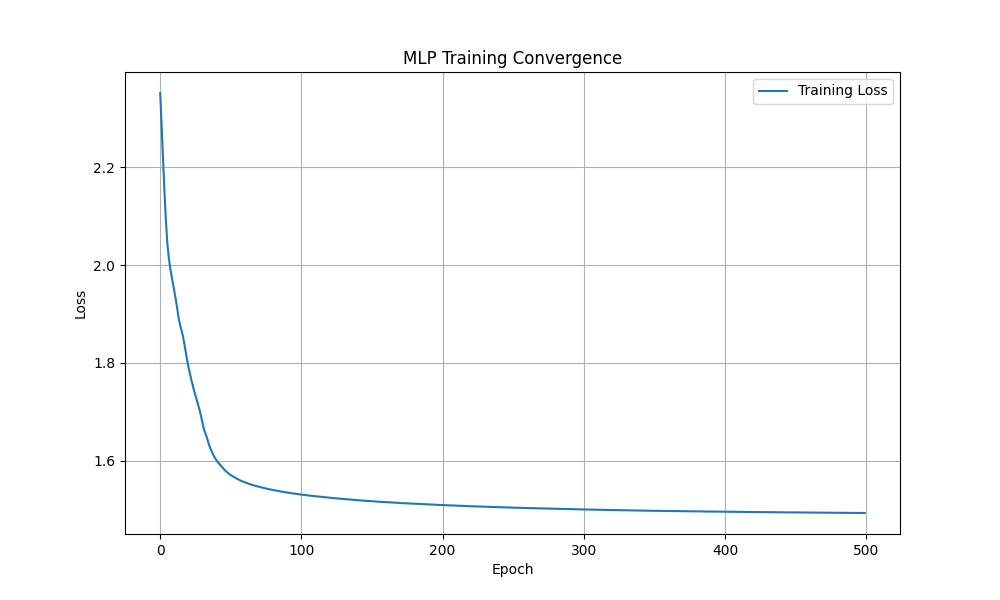
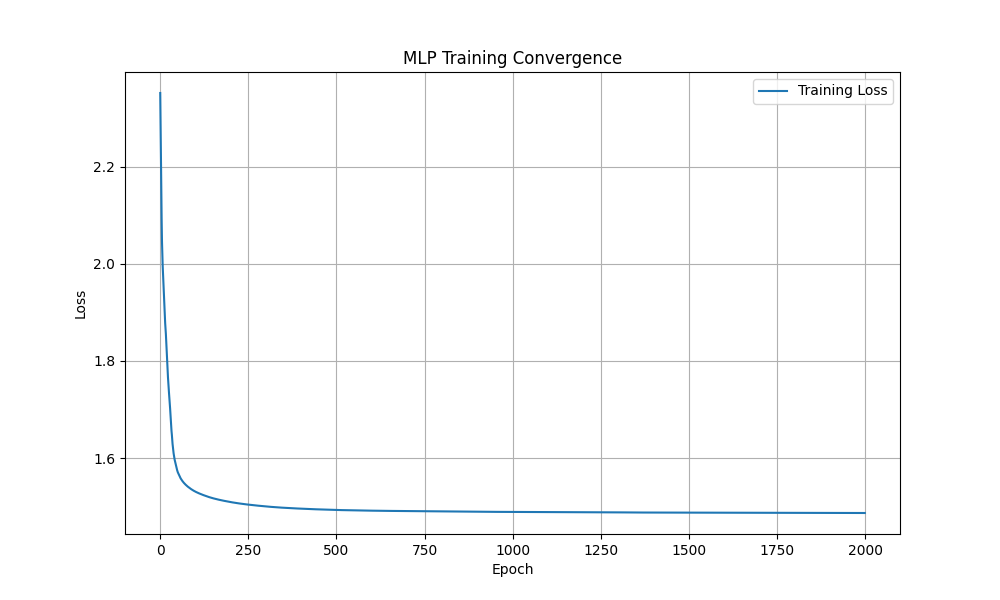
minor changes

diff --git a/local_code/stage_2_code/Method_MLP.py b/local_code/stage_2_code/Method_MLP.py
@@ -15,7 +15,7 @@ import numpy as np
 class Method_MLP(method, nn.Module):
     data = None
     # it defines the max rounds to train the model
-    max_epoch = 500
+    max_epoch = 2000
     # it defines the learning rate for gradient descent based optimizer for model learning
     learning_rate = 1e-3
 
